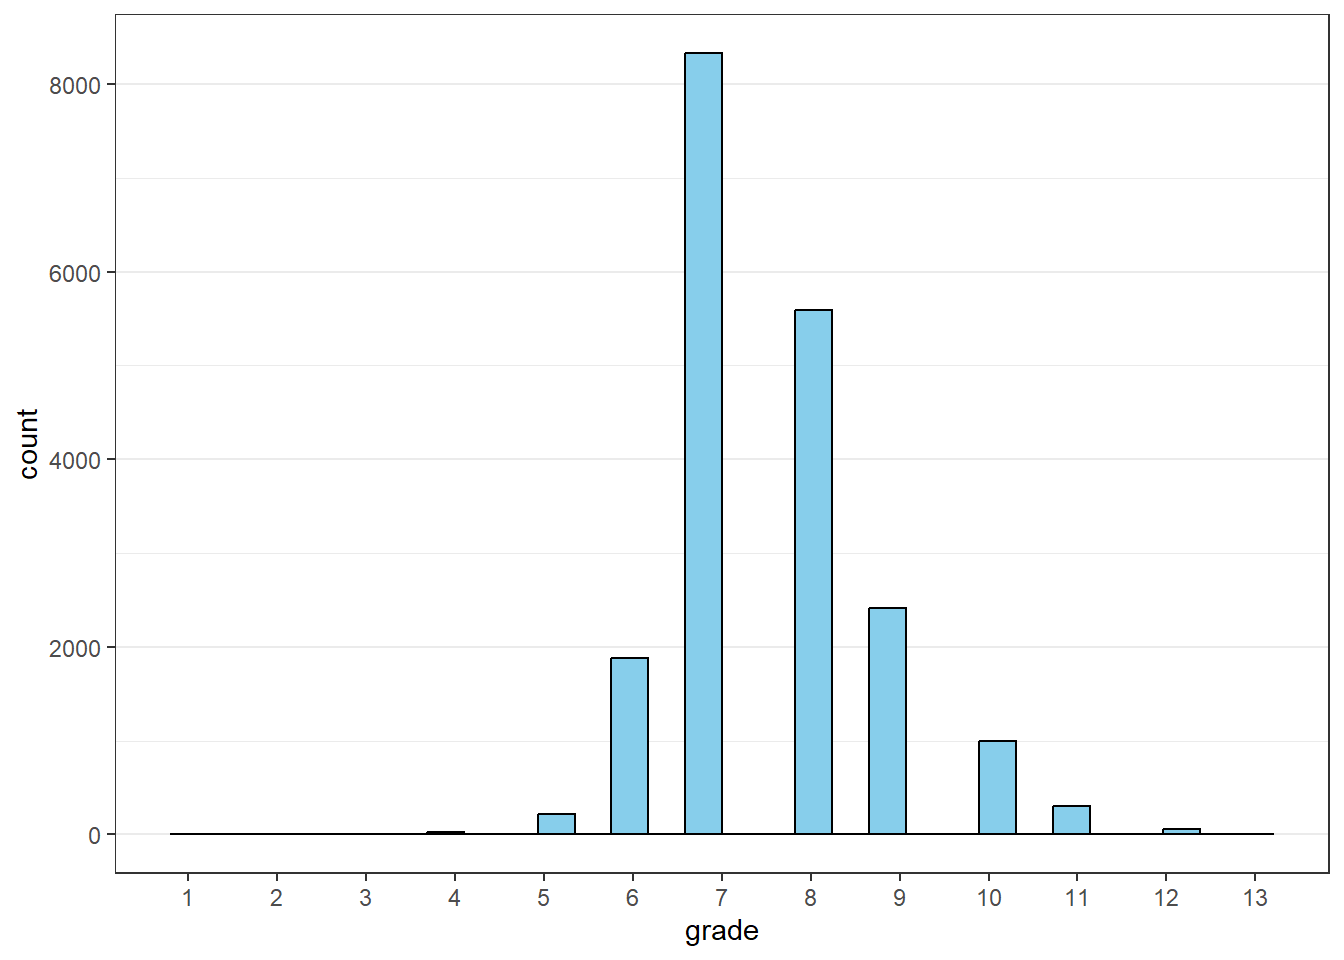
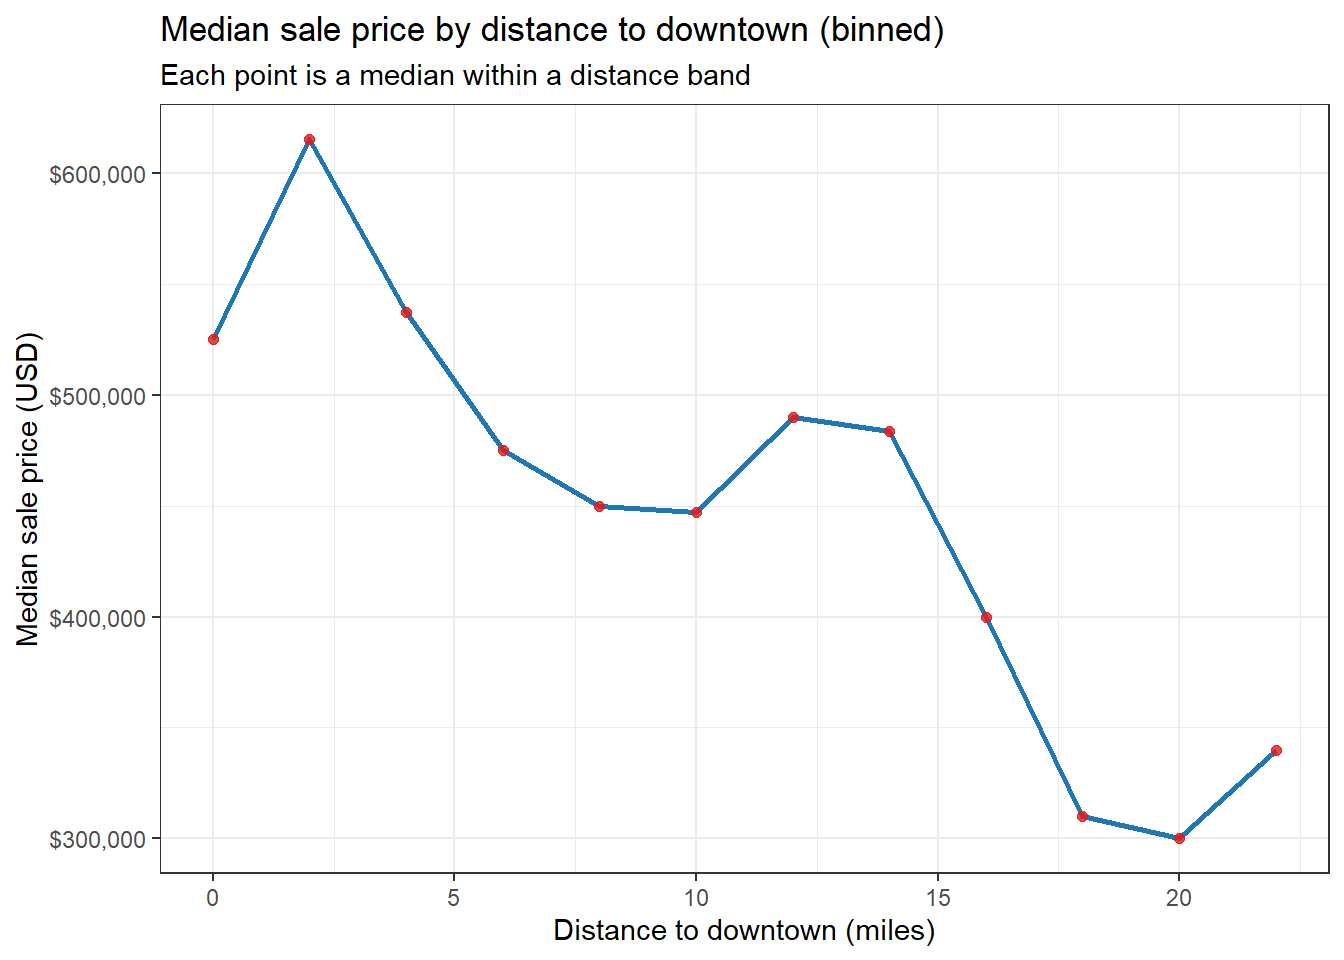
Revise Executive Summary and update figures to enhance clarity and accuracy of housing price analysis

diff --git a/Exec_Summary/Exec_Report.html b/Exec_Summary/Exec_Report.html
@@ -198,7 +198,7 @@ pre > code.sourceCode > span > a:first-child::before { text-decoration: underlin
 </div>
 </div>
 </div>
-<p>The second figure presents adjusted median prices by <code>condition</code> while holding other covariates constant. This isolates the conditional effect of condition from the broader mix of grades, sizes, and locations present in the raw sample.</p>
+<p>The second figure summarizes observed prices by condition, using the median sale price within each category to reduce the influence of extreme outliers. This is a critical adjustment; without accounting for these outliers, the skewed data creates the false impression that property condition has no measurable effect on the final sales price.</p>
 <div class="cell">
 <div class="cell-output-display">
 <div>
@@ -258,6 +258,80 @@ pre > code.sourceCode > span > a:first-child::before { text-decoration: underlin
 </section>
 <section id="addressing-specific-questions" class="level2">
 <h2 class="anchored" data-anchor-id="addressing-specific-questions">Addressing Specific Questions</h2>
+<p>Question: What quantifiable evidence do we have that the predictions we come up with are reliable?</p>
+<p>Answer: In an effort for transparency, while testing our model, we made sure to include quantifiable evidence through different choices of metrics. The most non-technical metrics chosen where the following: - Percent of houses within 5% of their actual price - Percent of houses within 10% of their actual price - Percent of houses within 20% of their actual price</p>
+<p>More technical oriented metrics include: - R2 score - root mean squared error - median absolute error</p>
+<p>Our model scored well on each of these: - 42% of houses within 5% - 63% of houses within 10% - 86% of houses within 20% - R2 score: 0.88 - RMSE: 100,077 - MAE: 29,140</p>
+<p>Question: Which property types are weighing most heavily in the house prices predicted by your model?</p>
+<p>The attributes / property types weighing most heavily on the house prices predicted by our model are the following:</p>
+<ul>
+<li>The Grade of the House</li>
+<li>If there house is on waterfront</li>
+<li>A combined variable of house size, floors, bathrooms and bedrooms</li>
+<li>The median house price of the zipcode</li>
+<li>The rating of the houses view</li>
+</ul>
+<p>Question: Are there additional factors about these areas that might be affecting prices?</p>
+<div class="cell">
+<details class="code-fold">
+<summary>Code</summary>
+<div class="code-copy-outer-scaffold"><div class="sourceCode cell-code" id="cb4"><pre class="sourceCode r code-with-copy"><code class="sourceCode r"><span id="cb4-1"><a href="#cb4-1" aria-hidden="true" tabindex="-1"></a>house_downtown <span class="ot">&lt;-</span> house <span class="sc">%&gt;%</span></span>
+<span id="cb4-2"><a href="#cb4-2" aria-hidden="true" tabindex="-1"></a>  <span class="fu">mutate</span>(</span>
+<span id="cb4-3"><a href="#cb4-3" aria-hidden="true" tabindex="-1"></a>    <span class="at">date_year =</span> <span class="fu">as.integer</span>(<span class="fu">substr</span>(date, <span class="dv">1</span>, <span class="dv">4</span>)),</span>
+<span id="cb4-4"><a href="#cb4-4" aria-hidden="true" tabindex="-1"></a>    <span class="at">years_since_renovation =</span> <span class="fu">if_else</span>(yr_renovated <span class="sc">==</span> <span class="dv">0</span>, date_year <span class="sc">-</span> yr_built, date_year <span class="sc">-</span> yr_renovated),</span>
+<span id="cb4-5"><a href="#cb4-5" aria-hidden="true" tabindex="-1"></a>    <span class="at">month =</span> <span class="fu">as.integer</span>(<span class="fu">substr</span>(date, <span class="dv">5</span>, <span class="dv">6</span>)),</span>
+<span id="cb4-6"><a href="#cb4-6" aria-hidden="true" tabindex="-1"></a>    <span class="at">sqft_living_to_neighbors =</span> sqft_living <span class="sc">/</span> sqft_living15</span>
+<span id="cb4-7"><a href="#cb4-7" aria-hidden="true" tabindex="-1"></a>  ) <span class="sc">%&gt;%</span></span>
+<span id="cb4-8"><a href="#cb4-8" aria-hidden="true" tabindex="-1"></a>  <span class="fu">filter</span>(<span class="sc">!</span><span class="fu">is.na</span>(price))</span>
+<span id="cb4-9"><a href="#cb4-9" aria-hidden="true" tabindex="-1"></a></span>
+<span id="cb4-10"><a href="#cb4-10" aria-hidden="true" tabindex="-1"></a><span class="cf">if</span> (<span class="sc">!</span><span class="st">"distance_to_downtown"</span> <span class="sc">%in%</span> <span class="fu">names</span>(house_downtown)) {</span>
+<span id="cb4-11"><a href="#cb4-11" aria-hidden="true" tabindex="-1"></a>  haversine_miles <span class="ot">&lt;-</span> <span class="cf">function</span>(lon1, lat1, lon2, lat2) {</span>
+<span id="cb4-12"><a href="#cb4-12" aria-hidden="true" tabindex="-1"></a>    r <span class="ot">&lt;-</span> <span class="fl">3958.8</span></span>
+<span id="cb4-13"><a href="#cb4-13" aria-hidden="true" tabindex="-1"></a>    to_rad <span class="ot">&lt;-</span> pi <span class="sc">/</span> <span class="dv">180</span></span>
+<span id="cb4-14"><a href="#cb4-14" aria-hidden="true" tabindex="-1"></a>    dlon <span class="ot">&lt;-</span> (lon2 <span class="sc">-</span> lon1) <span class="sc">*</span> to_rad</span>
+<span id="cb4-15"><a href="#cb4-15" aria-hidden="true" tabindex="-1"></a>    dlat <span class="ot">&lt;-</span> (lat2 <span class="sc">-</span> lat1) <span class="sc">*</span> to_rad</span>
+<span id="cb4-16"><a href="#cb4-16" aria-hidden="true" tabindex="-1"></a>    a <span class="ot">&lt;-</span> <span class="fu">sin</span>(dlat <span class="sc">/</span> <span class="dv">2</span>)<span class="sc">^</span><span class="dv">2</span> <span class="sc">+</span> <span class="fu">cos</span>(lat1 <span class="sc">*</span> to_rad) <span class="sc">*</span> <span class="fu">cos</span>(lat2 <span class="sc">*</span> to_rad) <span class="sc">*</span> <span class="fu">sin</span>(dlon <span class="sc">/</span> <span class="dv">2</span>)<span class="sc">^</span><span class="dv">2</span></span>
+<span id="cb4-17"><a href="#cb4-17" aria-hidden="true" tabindex="-1"></a>    <span class="dv">2</span> <span class="sc">*</span> r <span class="sc">*</span> <span class="fu">asin</span>(<span class="fu">pmin</span>(<span class="dv">1</span>, <span class="fu">sqrt</span>(a)))</span>
+<span id="cb4-18"><a href="#cb4-18" aria-hidden="true" tabindex="-1"></a>  }</span>
+<span id="cb4-19"><a href="#cb4-19" aria-hidden="true" tabindex="-1"></a></span>
+<span id="cb4-20"><a href="#cb4-20" aria-hidden="true" tabindex="-1"></a>  house_downtown <span class="ot">&lt;-</span> house_downtown <span class="sc">%&gt;%</span></span>
+<span id="cb4-21"><a href="#cb4-21" aria-hidden="true" tabindex="-1"></a>    <span class="fu">mutate</span>(<span class="at">distance_to_downtown =</span> <span class="fu">haversine_miles</span>(long, lat, <span class="sc">-</span><span class="fl">122.3321</span>, <span class="fl">47.6062</span>))</span>
+<span id="cb4-22"><a href="#cb4-22" aria-hidden="true" tabindex="-1"></a>}</span>
+<span id="cb4-23"><a href="#cb4-23" aria-hidden="true" tabindex="-1"></a></span>
+<span id="cb4-24"><a href="#cb4-24" aria-hidden="true" tabindex="-1"></a>max_dist <span class="ot">&lt;-</span> <span class="fu">quantile</span>(house_downtown<span class="sc">$</span>distance_to_downtown, <span class="fl">0.95</span>, <span class="at">na.rm =</span> <span class="cn">TRUE</span>)</span>
+<span id="cb4-25"><a href="#cb4-25" aria-hidden="true" tabindex="-1"></a>bin_width <span class="ot">&lt;-</span> <span class="dv">2</span></span>
+<span id="cb4-26"><a href="#cb4-26" aria-hidden="true" tabindex="-1"></a></span>
+<span id="cb4-27"><a href="#cb4-27" aria-hidden="true" tabindex="-1"></a>binned <span class="ot">&lt;-</span> house_downtown <span class="sc">%&gt;%</span></span>
+<span id="cb4-28"><a href="#cb4-28" aria-hidden="true" tabindex="-1"></a>  <span class="fu">filter</span>(distance_to_downtown <span class="sc">&lt;=</span> max_dist) <span class="sc">%&gt;%</span></span>
+<span id="cb4-29"><a href="#cb4-29" aria-hidden="true" tabindex="-1"></a>  <span class="fu">mutate</span>(<span class="at">dist_bin =</span> <span class="fu">floor</span>(distance_to_downtown <span class="sc">/</span> bin_width) <span class="sc">*</span> bin_width) <span class="sc">%&gt;%</span></span>
+<span id="cb4-30"><a href="#cb4-30" aria-hidden="true" tabindex="-1"></a>  <span class="fu">group_by</span>(dist_bin) <span class="sc">%&gt;%</span></span>
+<span id="cb4-31"><a href="#cb4-31" aria-hidden="true" tabindex="-1"></a>  <span class="fu">summarise</span>(</span>
+<span id="cb4-32"><a href="#cb4-32" aria-hidden="true" tabindex="-1"></a>    <span class="at">median_price =</span> <span class="fu">median</span>(price, <span class="at">na.rm =</span> <span class="cn">TRUE</span>),</span>
+<span id="cb4-33"><a href="#cb4-33" aria-hidden="true" tabindex="-1"></a>    <span class="at">n =</span> <span class="fu">n</span>(),</span>
+<span id="cb4-34"><a href="#cb4-34" aria-hidden="true" tabindex="-1"></a>    <span class="at">.groups =</span> <span class="st">"drop"</span></span>
+<span id="cb4-35"><a href="#cb4-35" aria-hidden="true" tabindex="-1"></a>  )</span>
+<span id="cb4-36"><a href="#cb4-36" aria-hidden="true" tabindex="-1"></a></span>
+<span id="cb4-37"><a href="#cb4-37" aria-hidden="true" tabindex="-1"></a><span class="fu">ggplot</span>(binned, <span class="fu">aes</span>(<span class="at">x =</span> dist_bin, <span class="at">y =</span> median_price)) <span class="sc">+</span></span>
+<span id="cb4-38"><a href="#cb4-38" aria-hidden="true" tabindex="-1"></a>  <span class="fu">geom_line</span>(<span class="at">color =</span> <span class="st">"#1f78b4"</span>, <span class="at">linewidth =</span> <span class="dv">1</span>) <span class="sc">+</span></span>
+<span id="cb4-39"><a href="#cb4-39" aria-hidden="true" tabindex="-1"></a>  <span class="fu">geom_point</span>(<span class="at">color =</span> <span class="st">"#e31a1c"</span>, <span class="at">size =</span> <span class="fl">1.6</span>, <span class="at">alpha =</span> <span class="fl">0.8</span>) <span class="sc">+</span></span>
+<span id="cb4-40"><a href="#cb4-40" aria-hidden="true" tabindex="-1"></a>  <span class="fu">labs</span>(</span>
+<span id="cb4-41"><a href="#cb4-41" aria-hidden="true" tabindex="-1"></a>    <span class="at">title =</span> <span class="st">"Median sale price by distance to downtown (binned)"</span>,</span>
+<span id="cb4-42"><a href="#cb4-42" aria-hidden="true" tabindex="-1"></a>    <span class="at">subtitle =</span> <span class="st">"Each point is a median within a distance band"</span>,</span>
+<span id="cb4-43"><a href="#cb4-43" aria-hidden="true" tabindex="-1"></a>    <span class="at">x =</span> <span class="st">"Distance to downtown (miles)"</span>,</span>
+<span id="cb4-44"><a href="#cb4-44" aria-hidden="true" tabindex="-1"></a>    <span class="at">y =</span> <span class="st">"Median sale price (USD)"</span></span>
+<span id="cb4-45"><a href="#cb4-45" aria-hidden="true" tabindex="-1"></a>  ) <span class="sc">+</span></span>
+<span id="cb4-46"><a href="#cb4-46" aria-hidden="true" tabindex="-1"></a>  <span class="fu">scale_y_continuous</span>(<span class="at">labels =</span> scales<span class="sc">::</span>dollar) <span class="sc">+</span></span>
+<span id="cb4-47"><a href="#cb4-47" aria-hidden="true" tabindex="-1"></a>  <span class="fu">theme_bw</span>()</span></code></pre></div><button title="Copy to Clipboard" class="code-copy-button"><i class="bi"></i></button></div>
+</details>
+<div class="cell-output-display">
+<div>
+<figure class="figure">
+<p><img src="Exec_Report_files/figure-html/unnamed-chunk-10-1.png" class="img-fluid figure-img" width="672"></p>
+</figure>
+</div>
+</div>
+</div>
+<p>Answer: The binned median plot shows that observed sale prices are higher nearer downtown and generally decline as distance increases. This pattern is consistent with stronger demand close to major employment centers and amenities, and it helps explain the elevated prices observed in the Seattle–Bellevue corridor.</p>
 </section>
 <section id="code" class="level2">
 <h2 class="anchored" data-anchor-id="code">Code</h2>
